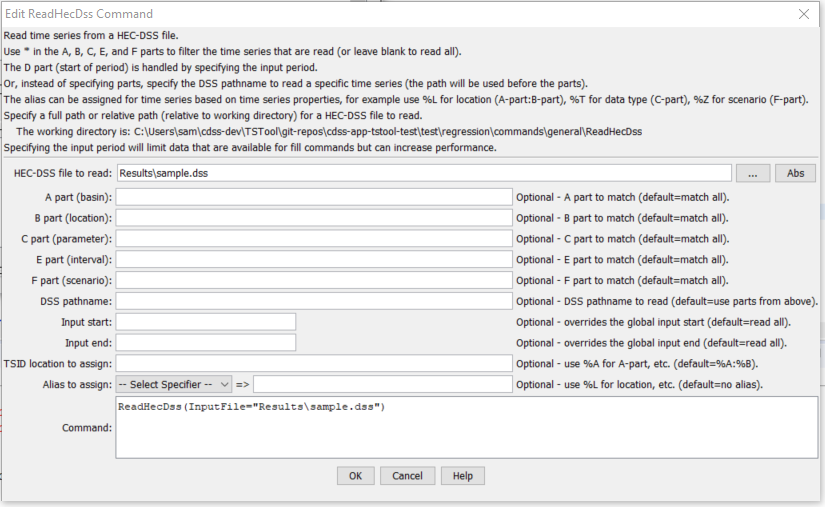
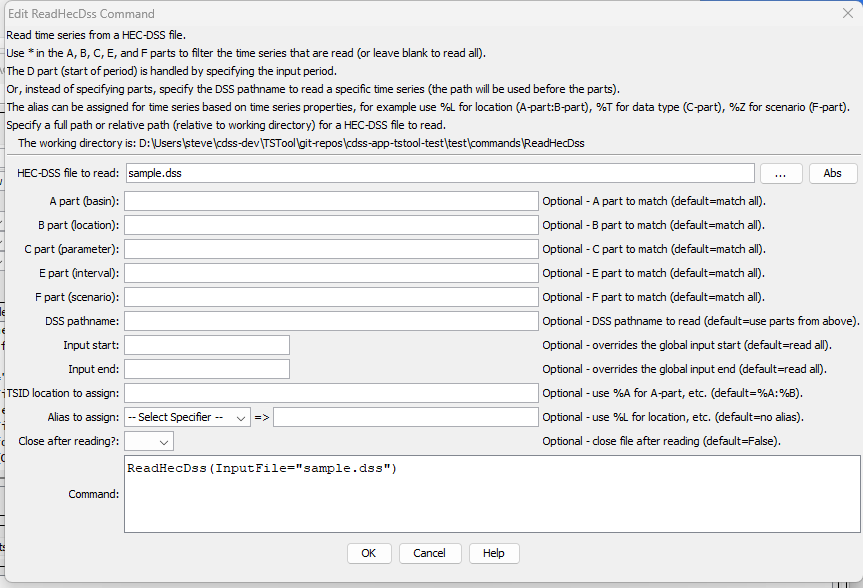
Update HEC-DSS since commands now work for 64-bit, issue #106

Changed region(s): [[0.0, 0.0, 1.0, 1.0], [0.4545, 0.0, 1.0, 0.0592]]

diff --git a/mkdocs-project/docs/datastore-ref/HEC-DSS/HEC-DSS.md b/mkdocs-project/docs/datastore-ref/HEC-DSS/HEC-DSS.md
@@ -31,7 +31,7 @@ For example:
 /APART1/BPART1/CPART1/01DEC1999/6HOUR/FPART1/
 /APART2/BPART2/CPART2/01JAN1999/1DAY/DAILY DATA/
 /APART3/BPART3/CPART3/01JAN1990/1MON/MONTHLY DATA/
-	/APART4/BPART4/CPART4/01JAN1900/1YEAR/YEARLY DATA/
+/APART4/BPART4/CPART4/01JAN1900/1YEAR/YEARLY DATA/
 /GREEN RIVER/WALNUT/STORAGE/01MAY1992/1HOUR/OBS/
 ```
 
@@ -50,65 +50,65 @@ Apart:Bpart.HEC-DSS.Cpart.Epart.Fpart~HEC-DSS~PathToFile
 HEC-DSS time series identifier information is taken from the A-F “pathname parts”
 used to identify HEC-DSS time series.  The following assignments are made:
 
-* The location type part of the identifier is set to the A-part.
-* The location identifier part of the identifier is set to the B-part.
-This retains the original HEC-DSS location information.
-**The colon and period characters cannot be used in the original HEC-DSS A- and B- parts
-because they conflict with the identifier implementation described above.
-Instead, it is recommended that dashes, underscores,
-and other delimiting characters are used within the parts if the
-HEC-DSS data will be used extensively with TSTool.**
-* The data source part of the identifier by default is set to
-HEC-DSS to indicate that “HEC-DSS” is the provider of the data.
-In the future this could be used to store the data source (data provider) such as “USGS”, “NWS”, etc.,
-if such information could be obtained from the HEC-DSS time series pathname or supplemental data.
-* The data type is set to the C-part.  In HEC-DSS, this is referred to as the “parameter”.
- In HEC-DSS the term “type” is used to indicate whether a time series is instantaneous, mean, or accumulated.
-**The period character cannot be used in the original HEC-DSS C-part when used with TSTool.**
-* The data interval is set to the E-part.
-**The period character cannot be used in the original HEC-DSS E-part when used with TSTool.
-Currently the irregular interval is not supported, but will be added in the future.**
-* The scenario is set to the F-part.
-**The period character cannot be used in the original HEC-DSS E-part when used with TSTool.**
-* The data units are determined from time series information.
-* The D-part is initially used to assign the time series period,
-but is reset with information from the time series data records, if available.
-The D-part dates are of the form `DDMonYYYY` or `DDMMYYYY` – `DDMonYYYY`.
-A single date indicates the start of a data block in the HEC-DSS data management scheme
-(see the HEC-DSS documentation referenced above).
-Two dates indicates the starting and ending data blocks for a condensed catalog (list of time series);
-however, in this case the ending date is actually the start of the last data block.
-The size of each data block depends on the time series interval (e.g.,
-year interval data are stored in blocks of centuries).
-The HEC-DSS standards for block size are used in conjunction with the time series interval to set the time series end date as appropriate.
-* The missing data value is assigned to the internal representation for HEC-DSS files (a large negative number).
-* The description is by default set to the location, a comma, followed by the data type.
+*   The location type part of the identifier is set to the A-part.
+*   The location identifier part of the identifier is set to the B-part.
+    This retains the original HEC-DSS location information.
+    **The colon and period characters cannot be used in the original HEC-DSS A- and B- parts
+    because they conflict with the identifier implementation described above.
+    Instead, it is recommended that dashes, underscores,
+    and other delimiting characters are used within the parts if the
+    HEC-DSS data will be used extensively with TSTool.**
+*   The data source part of the identifier by default is set to
+    HEC-DSS to indicate that “HEC-DSS” is the provider of the data.
+    In the future this could be used to store the data source (data provider) such as “USGS”, “NWS”, etc.,
+    if such information could be obtained from the HEC-DSS time series pathname or supplemental data.
+*   The data type is set to the C-part.  In HEC-DSS, this is referred to as the “parameter”.
+     In HEC-DSS the term “type” is used to indicate whether a time series is instantaneous, mean, or accumulated.
+    **The period character cannot be used in the original HEC-DSS C-part when used with TSTool.**
+*   The data interval is set to the E-part.
+    **The period character cannot be used in the original HEC-DSS E-part when used with TSTool.
+    Currently the irregular interval is not supported, but will be added in the future.**
+*   The scenario is set to the F-part.
+    **The period character cannot be used in the original HEC-DSS E-part when used with TSTool.**
+*   The data units are determined from time series information.
+*   The D-part is initially used to assign the time series period,
+    but is reset with information from the time series data records, if available.
+    The D-part dates are of the form `DDMonYYYY` or `DDMMYYYY` – `DDMonYYYY`.
+    A single date indicates the start of a data block in the HEC-DSS data management scheme
+    (see the HEC-DSS documentation referenced above).
+    Two dates indicates the starting and ending data blocks for a condensed catalog (list of time series);
+    however, in this case the ending date is actually the start of the last data block.
+    The size of each data block depends on the time series interval (e.g.,
+    year interval data are stored in blocks of centuries).
+    The HEC-DSS standards for block size are used in conjunction with the time series interval to set the time series end date as appropriate.
+*   The missing data value is assigned to the internal representation for HEC-DSS files (a large negative number).
+*   The description is by default set to the location, a comma, followed by the data type.
 
 ## Limitations ##
 
 The following limitations are known with the HEC-DSS input type:
 
-* A- and B- parts that include colons will cause an error when
-converting HEC-DSS identifiers to/from the convention described
-above – avoid using colons in the A- and B- parts.
-* A-, B-, C-, E-, and F- parts that include periods will cause an error when converting
-to/from HEC-DSS identifiers to the convention described above – avoid using colons in the location identifier.
-If encountered, the alias for the time series is set to the full identifier with periods.
-The periods are then removed before setting the full identifier.
-* Irregular data are not fully implemented but are supported by the software architecture – they will be enabled in the future.
-* Paired data are not currently read – the data are envisioned to be read into the table objects supported by TSTool.
-* Access to supplemental data such as station comments is not implemented but is supported by the software architecture.
-* Data units from HEC-DSS time series are read and used with the time series.
-However, conversion between units may not be supported if the units are not
-included in the data units file used by software.
-Additional data unit definitions can be added if necessary to facilitate conversions.
-* HEC-DSS can store the observation date/time for data to a higher precision than the time series data interval.
-For example, the observation date/time for an annual value may be July 30, 2400 of the year.
-The additional precision is ignored when read.
-An observation time at the end of an interval that might result in a different
-base date/time (e.g., hour 2400 causing the day to increment for daily interval data),
-is handled to prevent the rollover.
-* Plotting capabilities do not recognize the data scale (instantaneous, mean, accumulated) – line
-graphs are always drawn as if data were instantaneous.
-This could be addressed by enhancing the software to utilize a data type file and
-display styles to determine when data types are instantaneous, mean, or accumulated.
+*   A- and B- parts that include colons will cause an error when
+    converting HEC-DSS identifiers to/from the convention described
+    above – avoid using colons in the A- and B- parts.
+*   A-, B-, C-, E-, and F- parts that include periods will cause an error when converting
+    to/from HEC-DSS identifiers to the convention described above – avoid using colons in the location identifier.
+    If encountered, the alias for the time series is set to the full identifier with periods.
+    The periods are then removed before setting the full identifier.
+*   Irregular data are not fully implemented but are supported by the software architecture – they will be enabled in the future.
+*   Paired data are not currently read – the data are envisioned to be read into the table objects supported by TSTool.
+*   Access to supplemental data such as station comments is not implemented but is supported by the software architecture.
+*   Data units from HEC-DSS time series are read and used with the time series.
+    However, conversion between units may not be supported if the units are not
+    included in the data units file used by software.
+    Additional data unit definitions can be added if necessary to facilitate conversions.
+*   HEC-DSS can store the observation date/time for data to a higher precision than the time series data interval.
+    For example, the observation date/time for an annual value may be July 30, 2400 of the year.
+    The additional precision is ignored when read.
+    An observation time at the end of an interval that might result in a different
+    base date/time (e.g., hour 2400 causing the day to increment for daily interval data),
+    is handled to prevent the rollover.
+*   Plotting capabilities do not recognize the data scale (instantaneous, mean, accumulated) – line
+    graphs are always drawn as if data were instantaneous.
+    This could be addressed by enhancing the software to utilize a data type file and
+    display styles to determine when data types are instantaneous, mean, or accumulated.

diff --git a/mkdocs-project/docs/appendix-install/install.md b/mkdocs-project/docs/appendix-install/install.md
@@ -6,21 +6,21 @@ to process water resources data for modeling and analysis.
 However, TSTool can be used outside of CDSS and also can be used to analyze data other than water resources.
 In all cases, it is recommended to install in the default location to avoid confusion.
 
-* [Overview](#overview)
-* [File Locations](#file-locations)
-	+ [Installation Files](#installation-files)
-	+ [User Files](#user-files)
-* [Installing TSTool](#installing-tstool)
-	+ [Install TSTool on Windows](#install-tstool-on-windows)
-	+ [Install TSTool on a Windows File Server](#install-tstool-on-a-windows-file-server)
-	+ [Install TSTool from the “HydroBase data set Analysis Query Tools DVD”](#install-tstool-from-the-hydrobase-data-set-analysis-query-tools-dvd)
-	+ [Install TSTool on Linux](#install-tstool-on-linux)
-* [Uninstalling TSTool](#uninstalling-tstool)
-	+ [Uninstall TSTool on Windows](#uninstall-tstool-on-windows)
-	+ [Uninstall TSTool on Linux](#uninstall-tstool-on-linux)
-* [Running TSTool](#running-tstool)
-* [TSTool Configuration](#tstool-configuration)
-* [Map Configuration](#map-configuration)
+*   [Overview](#overview)
+*   [File Locations](#file-locations)
+    +   [Installation Files](#installation-files)
+    +   [User Files](#user-files)
+*   [Installing TSTool](#installing-tstool)
+    +   [Install TSTool on Windows](#install-tstool-on-windows)
+    +   [Install TSTool on a Windows File Server](#install-tstool-on-a-windows-file-server)
+    +   [Install TSTool from the “HydroBase data set Analysis Query Tools DVD”](#install-tstool-from-the-hydrobase-data-set-analysis-query-tools-dvd)
+    +   [Install TSTool on Linux](#install-tstool-on-linux)
+*  [Uninstalling TSTool](#uninstalling-tstool)
+    +   [Uninstall TSTool on Windows](#uninstall-tstool-on-windows)
+    +   [Uninstall TSTool on Linux](#uninstall-tstool-on-linux)
+*   [Running TSTool](#running-tstool)
+*   [TSTool Configuration](#tstool-configuration)
+*   [Map Configuration](#map-configuration)
 
 -------
 
@@ -336,11 +336,11 @@ The standard installer described in this documentation focuses on individual ins
 To make TSTool software installed on a server available to other computers,
 perform the following (this is typically performed by system administrators):
 
-1. Run the `TSTool_CDSS_Version_Setup.exe` installer as described above.
-During installation specify the TSTool installation home using a drive letter and
-path for the server or specify a Universal Naming Convention (UNC) path (e.g., `\\ServerName\CDSS\TSTool-Version`).
-2. Or...Copy the `C:\Users\user\CDSS\TSTool-Version` files from a local installation to a network location.
-The TSTool software will detect the file location when run using the `TSTool.exe` file.
+1.  Run the `TSTool_CDSS_Version_Setup.exe` installer as described above.
+    During installation specify the TSTool installation home using a drive letter and
+    path for the server or specify a Universal Naming Convention (UNC) path (e.g., `\\ServerName\CDSS\TSTool-Version`).
+2.  Or...Copy the `C:\Users\user\CDSS\TSTool-Version` files from a local installation to a network location.
+    The TSTool software will detect the file location when run using the `TSTool.exe` file.
 
 The menus and shortcuts will only be configured for the computer from which the installation was run.
 Therefore, menus and shortcuts for other computers will need to be manually configured.
@@ -439,12 +439,12 @@ which allows overriding the installation files configuration files.
 
 The `system\TSTool.cfg` file can be specified in the following two locations on Windows:
 
-* Installation files:
-	+ Windows:  `C:\CDSS\TSTool-Version\system\TSTool.cfg`
-	+ Linux:  `/opt/TSTool-Version/system/TSTool.cfg`
+*   Installation files:
+    +   Windows:  `C:\CDSS\TSTool-Version\system\TSTool.cfg`
+    +   Linux:  `/opt/TSTool-Version/system/TSTool.cfg`
 * User files (`N` below is the TSTool major version number, e.g., `13`):
-	+ Windows:  `C:\Users\user\.tstool\N\system\TSTool.cfg`
-	+ Linux:  `/home/user/.tstool/N/system/TSTool.cfg`
+    +   Windows:  `C:\Users\user\.tstool\N\system\TSTool.cfg`
+    +   Linux:  `/home/user/.tstool/N/system/TSTool.cfg`
 
 The `TSTool.cfg` file installation folder contains top-level configuration information for TSTool.
 User file configuration properties take precedence over the installation configuration properties.
@@ -475,10 +475,10 @@ StateModEnabled = true
 
 # Program to use for file differences, intended to be graphical file difference viewer.
 # The program will be called as DiffProgram File1 File2.
-# It is up to the user to install KDiff3 on the computer or change the following
-# to a different program.
-DiffProgram = "C:\Program Files\KDiff3\kdiff3.exe"
-DiffProgram.Windows = "C:\Program Files\KDiff3\kdiff3.exe"
+# Specify programs separated by commas if more than one proram name or location is possible.
+# It is up to the user to install KDiff3 on the computer or change the following to a different program.
+DiffProgram = "C:\Program Files\KDiff3\kdiff3.exe,C:\Program Files\KDiff3\bin\kdiff3.exe"
+DiffProgram.Windows = "C:\Program Files\KDiff3\kdiff3.exe,C:\Program Files\KDiff3\bin\kdiff3.exe"
 DiffProgram.Linux = "/usr/bin/kdiff3"
 
 # Online documentation home.

diff --git a/mkdocs-project/docs/command-ref/WriteHecDss/WriteHecDss.md b/mkdocs-project/docs/command-ref/WriteHecDss/WriteHecDss.md
@@ -11,31 +11,28 @@
 
 ## Overview ##
 
-**The `WriteHecDSS` command is disabled for TSTool 14.0.0 and newer
-because TSTool needs to be updated to use 64-bit HEC-DSS software libraries.**
-
 The `WriteHecDss` command writes time series to a HEC-DSS file.
 See the [HEC-DSS Input Type Appendix](../../datastore-ref/HEC-DSS/HEC-DSS.md)
 for information about how time series properties are output to HEC-DSS files.
 Current limitations of the command are:
 
-* Irregular time series are not supported – the focus of initial development has been regular interval time series.
-* 24-hour time series in TSTool cannot be written to HEC-DSS because HEC-DSS only supports 1DAY interval.
-Therefore, the time series must be converted to a daily time series before writing.
-An option to convert 24-hour values to 1DAY may be added to this command in the future.
-* HEC-DSS uses times through 2400.  TSTool will convert this to 0000 of the next day.
-Year, month, and day data are not impacted.  The internal TSTool values will be converted to hour 2400 when writing.
-Therefore, reading from a HEC-DSS file and then writing should result in no change in data.
-* Time series that are written overwrite existing time series, but only for the period that is written.
-Therefore, previously written values may remain, even if not appropriate.
-A future enhancement will allow the option of removing the old data before writing new data.
-The work-around is to write a period that is sufficiently long to guarantee
-that old data values do not remain in the file, or clear the file out with another tool such as DSSUTL before writing.
-* Currently the connections to the HEC-DSS file may remain open after the write,
-in order to minimize performance degradation for multiple write commands.
-However, this will lock the HEC-DSS file so that other commands or programs cannot perform file manipulation, such as removing the file.
-The connections will automatically time out after several minutes.
-A future enhancement will ensure that the file connections can be closed.  See the Close command parameter.
+*   Irregular time series are not supported – the focus of initial development has been regular interval time series.
+*   24-hour time series in TSTool cannot be written to HEC-DSS because HEC-DSS only supports 1DAY interval.
+    Therefore, the time series must be converted to a daily time series before writing.
+    An option to convert 24-hour values to 1DAY may be added to this command in the future.
+*   HEC-DSS uses times through 2400.  TSTool will convert this to 0000 of the next day.
+    Year, month, and day data are not impacted.  The internal TSTool values will be converted to hour 2400 when writing.
+    Therefore, reading from a HEC-DSS file and then writing should result in no change in data.
+*   Time series that are written overwrite existing time series, but only for the period that is written.
+    Therefore, previously written values may remain, even if not appropriate.
+    A future enhancement will allow the option of removing the old data before writing new data.
+    The work-around is to write a period that is sufficiently long to guarantee
+    that old data values do not remain in the file, or clear the file out with another tool such as DSSUTL before writing.
+*   Currently the connections to the HEC-DSS file may remain open after the write,
+    in order to minimize performance degradation for multiple write commands.
+    However, this will lock the HEC-DSS file so that other commands or programs cannot perform file manipulation, such as removing the file.
+    The connections will automatically time out after several minutes.
+    A future enhancement will ensure that the file connections can be closed.  See the Close command parameter.
 
 The A-F parts of the HEC-DSS time series pathname by default are taken from the time series properties, as follows:
 

diff --git a/mkdocs-project/docs/command-ref/CopyFile/CopyFile.md b/mkdocs-project/docs/command-ref/CopyFile/CopyFile.md
@@ -12,17 +12,42 @@
 ## Overview ##
 
 The `CopyFile` command copies a source file to a destination.
+The destination can be one of:
+
+* a specific file given by the `OutputFile` parameter
+* a temporary file (use the `TempFileProperty` command parameter to allow using the
+  name in other commands)
+
+If a temporary file is used, the filename will include randomly-generated characters
+based on the operating system.
+The `TempFilePrefix` and `TempFileSuffix` parameters are recommended in order to
+clarify which temporary files are associated with a command workflow.
+If the temporary file is located in the default location,
+the operating system will typically remove the file when the computer is restarted.
+Otherwise, the [`RemoveFile`](../RemoveFile/RemoveFile.md) command
+must be used to remove the file to ensure that file space is not wasted.
 
 ## Command Editor ##
 
-The following dialog is used to edit the command and illustrates the command syntax.
+The following dialog is used to edit the command and illustrates the command syntax for
+a specific output file.
 
 **<p style="text-align: center;">
 ![CopyFile](CopyFile.png)
 </p>**
 
 **<p style="text-align: center;">
-`CopyFile` Command Editor (<a href="../CopyFile.png">see also the full-size image</a>)
+`CopyFile` Command Editor for an Output File (<a href="../CopyFile.png">see also the full-size image</a>)
+</p>**
+
+The following is used to specify a temporary file.
+
+**<p style="text-align: center;">
+![CopyFile-Temp](CopyFile-Temp.png)
+</p>**
+
+**<p style="text-align: center;">
+`CopyFile` Command Editor for a Temporary File (<a href="../CopyFile-Temp.png">see also the full-size image</a>)
 </p>**
 
 ## Command Syntax ##
@@ -38,8 +63,12 @@ Command Parameters
 
 | **Parameter**&nbsp;&nbsp;&nbsp;&nbsp;&nbsp;&nbsp;&nbsp;&nbsp;&nbsp;&nbsp;&nbsp;&nbsp;&nbsp;&nbsp;&nbsp;&nbsp;&nbsp;&nbsp;&nbsp;&nbsp;&nbsp;&nbsp;&nbsp;&nbsp;&nbsp;&nbsp; | **Description** | **Default**&nbsp;&nbsp;&nbsp;&nbsp;&nbsp;&nbsp;&nbsp;&nbsp;&nbsp;&nbsp; |
 | --------------|-----------------|----------------- |
-| `InputFile`<br>**required** | The name of the source file to copy.  Can be specified using `${Property}`. | None - must be specified. |
-| `OutputFile`<br>**required** | The name of the output file.  Can be specified using `${Property}`. | None - must be specified. |
+| `InputFile`<br>**required** | The name of the source file to copy. Can be specified using `${Property}`. | None - must be specified. |
+| `OutputFile` | The name of the output file. Can be specified using `${Property}`. | Must be specified if temporary file is not used. |
+| `TempFolder` | The name of the folder for a temporary file. Can be specified using `${Property}`. | `C:\Users\user\AppData\Local\Temp` on Windows or `/tmp` on Linux.  See the TSTool `TempDir` property in ***Results***. |
+| `TempFilePrefix` | Prefix to add to the start of a temporary file. Can be specified using `${Property}`.| |
+| `TempFileSuffix` | Suffix to add to the end of a temporary file, Can be specified using `${Property}`. The period must be specified to indicate a file extension. | `.tmp` |
+| `TempFileProperty` | Property name to set to the output file if a temporary file is used. | |
 | `IfInputNotFound` | Indicate an action if the source file is not found:  `Ignore` (ignore the missing file and do not warn), `Warn` (generate a warning message), `Fail` (generate a failure message) | `Warn` |
 
 ## Examples ##

diff --git a/mkdocs-project/docs/command-ref/ReadHecDss/ReadHecDss.md b/mkdocs-project/docs/command-ref/ReadHecDss/ReadHecDss.md
@@ -11,17 +11,14 @@
 
 ## Overview ##
 
-**The `ReadHecDSS` command is disabled for TSTool 14.0.0 and newer
-because TSTool needs to be updated to use 64-bit HEC-DSS software libraries.**
-
 The `ReadHecDss` command reads time series from a HEC-DSS file.
 See the [HEC-DSS Input Type Appendix](../../datastore-ref/HEC-DSS/HEC-DSS.md) for information
 about how time series properties are assigned using HEC-DSS file data.
 Current limitations for the command include:
 
-* Irregular time series cannot be read.
-* HEC-DSS uses times through `2400`.
-However, TSTool will convert this to `0000` of the next day.  Year, month, and day data are not impacted.
+*   Irregular time series cannot be read.
+*   HEC-DSS uses times through `2400`.
+    However, TSTool will convert this to `0000` of the next day.  Year, month, and day data are not impacted.
 
 ## Command Editor ##
 
@@ -47,7 +44,7 @@ ReadHecDss(Parameter="Value",...)
 Command Parameters
 </p>**
 
-|**Parameter**&nbsp;&nbsp;&nbsp;&nbsp;&nbsp;&nbsp;&nbsp;&nbsp;&nbsp;&nbsp;&nbsp;|**Description**|**Default**&nbsp;&nbsp;&nbsp;&nbsp;&nbsp;&nbsp;&nbsp;&nbsp;&nbsp;&nbsp;&nbsp;&nbsp;&nbsp;&nbsp;&nbsp;&nbsp;&nbsp;&nbsp;&nbsp;&nbsp;&nbsp;&nbsp;&nbsp;&nbsp;&nbsp;&nbsp;&nbsp;|
+|**Parameter**&nbsp;&nbsp;&nbsp;&nbsp;&nbsp;&nbsp;&nbsp;&nbsp;&nbsp;&nbsp;&nbsp;&nbsp;&nbsp;|**Description**|**Default**&nbsp;&nbsp;&nbsp;&nbsp;&nbsp;&nbsp;&nbsp;&nbsp;&nbsp;&nbsp;&nbsp;&nbsp;&nbsp;&nbsp;&nbsp;&nbsp;&nbsp;&nbsp;&nbsp;&nbsp;&nbsp;&nbsp;&nbsp;&nbsp;&nbsp;&nbsp;&nbsp;|
 |--------------|-----------------|-----------------|
 |`InputFile`<br>**required**|The name of the HEC-DSS input file to read, surrounded by double quotes to protect whitespace and special characters.  Can be specified with `${Property}` notation.|None – must be specified.|
 |`A`|The A part (basin name) to match, using `*` as a wildcard.  The location type part of the TSTool time series identifier is set to this value.  Can be specified with `${Property}` notation.|Match all.|
@@ -60,6 +57,7 @@ Command Parameters
 |`InputEnd`|Ending date/time to read data, in precision consistent with data.  Can be specified with `${Property}` notation.|Read all data.|
 |`Location`|The location to assign for the time series identifier.  Use `%A`...`%F` to indicate the `A`part ... `F` part (`D` part is not available).  The assignment will impact the Alias assignment.  This is useful when only `B` part is desired as the location identifier.  Can be specified with `${Property}` notation.|Apart:Bpart (`%A:%B`).|
 |`Alias`|Alias to assign to the output time series.  See the `LegendFormat` property described in the [TSView Time Series Viewing Tools appendix](../../appendix-tsview/tsview.md).  For example, `%L` is full location, `%T` is data type (parameter in HEC-DSS notation), `%I` is interval, and `%Z` is scenario.  Can be specified with `${Property}` notation.|None is assigned.  However, if the location contains periods that are in conflict with time series identifier conventions, the alias is set to the identifier with periods, and the periods are replaced with spaces in the full time series identifier.|
+|`CloseAfterRead` | Close the file after reading.  This is useful because the underlying HEC-DSS software can lock files, which prevents some commands such as [`CopyFile`](../CopyFile/CopyFile.md) from working. Specify as `False` or `True`. | `False` |
 
 ## Examples ##
 

diff --git a/mkdocs-project/docs/appendix-release-notes/release-notes-14.md b/mkdocs-project/docs/appendix-release-notes/release-notes-14.md
@@ -1,6 +1,5 @@
 # TSTool / Release Notes / Version 14 #
 
-* [Known Limitations](#known-limitations)
 * [Changes in Version 14.4.0](#changes-in-version-1440)
 * [Changes in Version 14.3.0](#changes-in-version-1430)
 * [Changes in Version 14.2.2](#changes-in-version-1422)
@@ -18,12 +17,6 @@
 * [Release notes for all versions](release-notes.md)
 
 ----------
-
-## Known Limitations
-
-*   ![limitation](limitation.png) [14.0.0+] Features that were previously available for reading and writing HEC-DSS files are
-    not fully functional, pending additional updates.
-    Additional resources are needed to update the software to use 64-bit libraries for HEC-DSS.
 
 ## Changes in Version 14.4.0 ##
 
@@ -44,6 +37,11 @@
     to allow for multiple candidate difference programs to be specified, and handle in the
     main program and the [`CompareFiles`](../command-ref/CompareFiles/CompareFiles.md) command.
     The default configuration file has been updated to handle multiple KDiff3 installation folders.
+*   ![bug](bug.png) [14.4.0] Fix the HEC-DSS features:
+    +   [`ReadHecDss`](../command-ref/ReadHecDss/ReadHecDss.md) and the [`WriteHecDss`](../command-ref/WriteHecDss/WriteHecDss.md) commands
+        and interactive browsing had been broken since TSTool was updated to 64-bit architecture.
+    +   Update the [`ReadHecDss`](../command-ref/ReadHecDss/ReadHecDss.md) command to have `CloseAfterRead` parameter
+        to help with file locking.
 *   ![bug](bug.png) [14.4.0] Fix the [`CompareTables`](../command-ref/CompareTables/CompareTables.md) command
     to detect tables of different lengh (previously the number of rows in the first table controlled the comparison)
 *   ![change](change.png) [14.4.0] The
